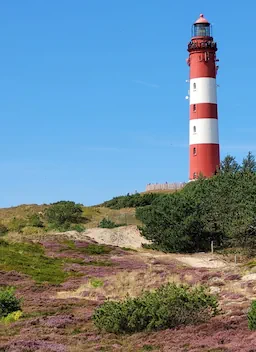
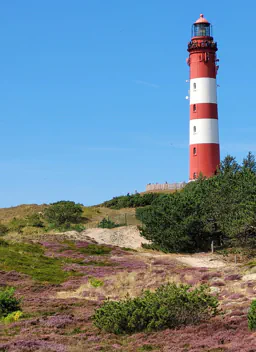
add back in the responsive light house frame

diff --git a/www/html/index.html b/www/html/index.html
@@ -127,8 +127,13 @@
                 alt="A blured image of the Amrumer lighthouse">
               <div class="more_about_image_frame">
                 <img class="more_about_frame"
-                  src="images/originals/lighthouse_frame.png"
-                  
+                  src="images/lighthouse_frame-1150.webp"
+                  srcset="images/lighthouse_frame-256.webp 256w,
+                          images/lighthouse_frame-580.webp 580w,
+                          images/lighthouse_frame-784.webp 784w,
+                          images/lighthouse_frame-980.webp 980w,
+                          images/lighthouse_frame-1150.webp 1150w"
+                  sizes="50vw"
                   alt="A croped frame of the Amrumer lighthouse with rolling hills of heather in the forground.">
               </div>
             </div>

diff --git a/tools/NodeJs/SharpResize.js b/tools/NodeJs/SharpResize.js
@@ -1,7 +1,7 @@
 const sharp = require('sharp');
 
-let dims = [[256, 248], [540, 523], [830, 804], [1150, 1114], [1430, 1386], [1660, 1608], [1860, 1802], [2048, 1984]]
-var src = "pi"
+let dims = [[256, 352], [580, 797], [784, 1077], [980, 1346], [1150, 1580]]
+var src = "lighthouse_frame"
 var path = '/Users/Lukas/OneDrive/OneDrive - University of Guelph/Documents/ICS/donau.ca/www/html/images/'
 
 for (var dim = 0; dim < dims.length; dim++) {

diff --git a/tools/Java/Auto/src/auto/Auto.java b/tools/Java/Auto/src/auto/Auto.java
@@ -24,10 +24,9 @@ public class Auto {
     public static void main(String[] args) {
         // Example for the main output
         // let dims = [[256, 192], [830, 623], [1150, 863], [1510, 1133], [1800, 1350],
-        // [2048, 1536]]
 
-        String input = "256\u00D7248, 540\u00D7523, 830\u00D7804, 1150\u00D71114, 1430\u00D71386, 1660\u00D71608, 1860\u00D71802, 2048\u00D71984";
-        String src = "images/pi.png";
+        String input = "256\u00D7352, 580\u00D7797, 784\u00D71077, 980\u00D71346, 1150\u00D71580";
+        String src="images/lighthouse_frame.png";
         //=-=-=-=-=-= REMEMBER TO REMOVE ++ORIGINAL++ FROM THE SRC=-=-=-=-=-=
 
         StringBuilder tempInput;
